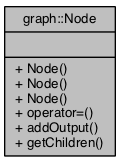
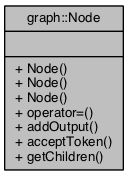
Documenation update

diff --git a/a00004.html b/a00004.html
@@ -102,47 +102,26 @@ Collaboration diagram for graph::Node:</div>
 <table class="memberdecls">
 <tr class="heading"><td colspan="2"><h2 class="groupheader"><a name="pub-methods"></a>
 Public Member Functions</h2></td></tr>
-<tr class="memitem:ad7a34779cad45d997bfd6d3d8043c75f"><td class="memItemLeft" align="right" valign="top">&#160;</td><td class="memItemRight" valign="bottom"><a class="el" href="a00004.html#ad7a34779cad45d997bfd6d3d8043c75f">Node</a> ()</td></tr>
-<tr class="separator:ad7a34779cad45d997bfd6d3d8043c75f"><td class="memSeparator" colspan="2">&#160;</td></tr>
 <tr class="memitem:a327cb611fb189d5252b6026917c226b7"><td class="memItemLeft" align="right" valign="top">&#160;</td><td class="memItemRight" valign="bottom"><a class="el" href="a00004.html#a327cb611fb189d5252b6026917c226b7">Node</a> (const <a class="el" href="a00004.html">Node</a> &amp;other)</td></tr>
 <tr class="separator:a327cb611fb189d5252b6026917c226b7"><td class="memSeparator" colspan="2">&#160;</td></tr>
-<tr class="memitem:a779b34c4717d1eb4a07b6395f283dbda"><td class="memItemLeft" align="right" valign="top">&#160;</td><td class="memItemRight" valign="bottom"><a class="el" href="a00004.html#a779b34c4717d1eb4a07b6395f283dbda">Node</a> (std::vector&lt; const <a class="el" href="a00004.html">Node</a> * &gt; &amp;output)</td></tr>
-<tr class="separator:a779b34c4717d1eb4a07b6395f283dbda"><td class="memSeparator" colspan="2">&#160;</td></tr>
+<tr class="memitem:ad3815f8afcd9f21b50b935ea3396bfb9"><td class="memItemLeft" align="right" valign="top">&#160;</td><td class="memItemRight" valign="bottom"><a class="el" href="a00004.html#ad3815f8afcd9f21b50b935ea3396bfb9">Node</a> (int treshold)</td></tr>
+<tr class="separator:ad3815f8afcd9f21b50b935ea3396bfb9"><td class="memSeparator" colspan="2">&#160;</td></tr>
+<tr class="memitem:a63b4d302f2d5459a25d15c375dd3ca73"><td class="memItemLeft" align="right" valign="top">&#160;</td><td class="memItemRight" valign="bottom"><a class="el" href="a00004.html#a63b4d302f2d5459a25d15c375dd3ca73">Node</a> (int treshold, std::vector&lt; <a class="el" href="a00004.html">Node</a> * &gt; &amp;output)</td></tr>
+<tr class="separator:a63b4d302f2d5459a25d15c375dd3ca73"><td class="memSeparator" colspan="2">&#160;</td></tr>
 <tr class="memitem:aefb1da11b9ddf052d8940d6637cbc0c9"><td class="memItemLeft" align="right" valign="top"><a class="el" href="a00004.html">Node</a> &amp;&#160;</td><td class="memItemRight" valign="bottom"><a class="el" href="a00004.html#aefb1da11b9ddf052d8940d6637cbc0c9">operator=</a> (const <a class="el" href="a00004.html">Node</a> &amp;rhs)</td></tr>
 <tr class="separator:aefb1da11b9ddf052d8940d6637cbc0c9"><td class="memSeparator" colspan="2">&#160;</td></tr>
-<tr class="memitem:aa47603f105bf68733d3817a396e48351"><td class="memItemLeft" align="right" valign="top">void&#160;</td><td class="memItemRight" valign="bottom"><a class="el" href="a00004.html#aa47603f105bf68733d3817a396e48351">addOutput</a> (const <a class="el" href="a00004.html">Node</a> *node)</td></tr>
-<tr class="separator:aa47603f105bf68733d3817a396e48351"><td class="memSeparator" colspan="2">&#160;</td></tr>
-<tr class="memitem:a5c06e4ec6c5fe6b2d6d754b9c5a688af"><td class="memItemLeft" align="right" valign="top">const std::vector&lt; const <a class="el" href="a00004.html">Node</a> * &gt;&#160;</td><td class="memItemRight" valign="bottom"><a class="el" href="a00004.html#a5c06e4ec6c5fe6b2d6d754b9c5a688af">getChildren</a> () const </td></tr>
-<tr class="separator:a5c06e4ec6c5fe6b2d6d754b9c5a688af"><td class="memSeparator" colspan="2">&#160;</td></tr>
+<tr class="memitem:a9d7f4c2bbc6adb8dea3d93ef77f9ab54"><td class="memItemLeft" align="right" valign="top">void&#160;</td><td class="memItemRight" valign="bottom"><a class="el" href="a00004.html#a9d7f4c2bbc6adb8dea3d93ef77f9ab54">addOutput</a> (<a class="el" href="a00004.html">Node</a> *node)</td></tr>
+<tr class="separator:a9d7f4c2bbc6adb8dea3d93ef77f9ab54"><td class="memSeparator" colspan="2">&#160;</td></tr>
+<tr class="memitem:a54203e5d9a16ad6dd9fc8ccf70064af6"><td class="memItemLeft" align="right" valign="top">void&#160;</td><td class="memItemRight" valign="bottom"><a class="el" href="a00004.html#a54203e5d9a16ad6dd9fc8ccf70064af6">acceptToken</a> (<a class="el" href="a00005.html">Token</a> *token)</td></tr>
+<tr class="separator:a54203e5d9a16ad6dd9fc8ccf70064af6"><td class="memSeparator" colspan="2">&#160;</td></tr>
+<tr class="memitem:a4bdef23ee2e31c88ea7faadde086ca3d"><td class="memItemLeft" align="right" valign="top">const std::vector&lt; <a class="el" href="a00004.html">Node</a> * &gt;&#160;</td><td class="memItemRight" valign="bottom"><a class="el" href="a00004.html#a4bdef23ee2e31c88ea7faadde086ca3d">getChildren</a> ()</td></tr>
+<tr class="separator:a4bdef23ee2e31c88ea7faadde086ca3d"><td class="memSeparator" colspan="2">&#160;</td></tr>
 </table>
 <a name="details" id="details"></a><h2 class="groupheader">Detailed Description</h2>
-<div class="textblock"><p>This class represents a node in a graph</p>
+<div class="textblock"><p>This class represents a node in a dataflow graph. A node represents a single operation on an arbitrary amount of input data.</p>
+<p>This input data is provided by other elements in the form of a <a class="el" href="a00005.html">Token</a>. Once the node received all of the input tokens it needs, it executes it's operation and sends the results to other nodes that are waiting for this data.</p>
 <dl class="section author"><dt>Author</dt><dd>Mathijs Saey </dd></dl>
 </div><h2 class="groupheader">Constructor &amp; Destructor Documentation</h2>
-<a class="anchor" id="ad7a34779cad45d997bfd6d3d8043c75f"></a>
-<div class="memitem">
-<div class="memproto">
-<table class="mlabels">
-  <tr>
-  <td class="mlabels-left">
-      <table class="memname">
-        <tr>
-          <td class="memname">Node::Node </td>
-          <td>(</td>
-          <td class="paramname"></td><td>)</td>
-          <td></td>
-        </tr>
-      </table>
-  </td>
-  <td class="mlabels-right">
-<span class="mlabels"><span class="mlabel">explicit</span></span>  </td>
-  </tr>
-</table>
-</div><div class="memdoc">
-<p>Create a node with no output nodes </p>
-
-</div>
-</div>
 <a class="anchor" id="a327cb611fb189d5252b6026917c226b7"></a>
 <div class="memitem">
 <div class="memproto">
@@ -174,7 +153,7 @@ Public Member Functions</h2></td></tr>
 
 </div>
 </div>
-<a class="anchor" id="a779b34c4717d1eb4a07b6395f283dbda"></a>
+<a class="anchor" id="ad3815f8afcd9f21b50b935ea3396bfb9"></a>
 <div class="memitem">
 <div class="memproto">
 <table class="mlabels">
@@ -184,9 +163,50 @@ Public Member Functions</h2></td></tr>
         <tr>
           <td class="memname">Node::Node </td>
           <td>(</td>
-          <td class="paramtype">std::vector&lt; const <a class="el" href="a00004.html">Node</a> * &gt; &amp;&#160;</td>
-          <td class="paramname"><em>output</em></td><td>)</td>
+          <td class="paramtype">int&#160;</td>
+          <td class="paramname"><em>treshold</em></td><td>)</td>
           <td></td>
+        </tr>
+      </table>
+  </td>
+  <td class="mlabels-right">
+<span class="mlabels"><span class="mlabel">explicit</span></span>  </td>
+  </tr>
+</table>
+</div><div class="memdoc">
+<p>Create a node with a given treshold.</p>
+<dl class="params"><dt>Parameters</dt><dd>
+  <table class="params">
+    <tr><td class="paramname">treshold</td><td>The amount of tokens the node needs to activate. </td></tr>
+  </table>
+  </dd>
+</dl>
+
+</div>
+</div>
+<a class="anchor" id="a63b4d302f2d5459a25d15c375dd3ca73"></a>
+<div class="memitem">
+<div class="memproto">
+<table class="mlabels">
+  <tr>
+  <td class="mlabels-left">
+      <table class="memname">
+        <tr>
+          <td class="memname">Node::Node </td>
+          <td>(</td>
+          <td class="paramtype">int&#160;</td>
+          <td class="paramname"><em>treshold</em>, </td>
+        </tr>
+        <tr>
+          <td class="paramkey"></td>
+          <td></td>
+          <td class="paramtype">std::vector&lt; <a class="el" href="a00004.html">Node</a> * &gt; &amp;&#160;</td>
+          <td class="paramname"><em>output</em>&#160;</td>
+        </tr>
+        <tr>
+          <td></td>
+          <td>)</td>
+          <td></td><td></td>
         </tr>
       </table>
   </td>
@@ -198,6 +218,7 @@ Public Member Functions</h2></td></tr>
 <p>Create a node with a given set of output nodes</p>
 <dl class="params"><dt>Parameters</dt><dd>
   <table class="params">
+    <tr><td class="paramname">treshold</td><td>The amount of tokens the node needs to activate.</td></tr>
     <tr><td class="paramname">output</td><td>A reference to a vector that contains the output nodes of this node. </td></tr>
   </table>
   </dd>
@@ -230,14 +251,14 @@ Public Member Functions</h2></td></tr>
 
 </div>
 </div>
-<a class="anchor" id="aa47603f105bf68733d3817a396e48351"></a>
+<a class="anchor" id="a9d7f4c2bbc6adb8dea3d93ef77f9ab54"></a>
 <div class="memitem">
 <div class="memproto">
       <table class="memname">
         <tr>
           <td class="memname">void Node::addOutput </td>
           <td>(</td>
-          <td class="paramtype">const <a class="el" href="a00004.html">Node</a> *&#160;</td>
+          <td class="paramtype"><a class="el" href="a00004.html">Node</a> *&#160;</td>
           <td class="paramname"><em>node</em></td><td>)</td>
           <td></td>
         </tr>
@@ -253,15 +274,38 @@ Public Member Functions</h2></td></tr>
 
 </div>
 </div>
-<a class="anchor" id="a5c06e4ec6c5fe6b2d6d754b9c5a688af"></a>
+<a class="anchor" id="a54203e5d9a16ad6dd9fc8ccf70064af6"></a>
 <div class="memitem">
 <div class="memproto">
       <table class="memname">
         <tr>
-          <td class="memname">const std::vector&lt; const <a class="el" href="a00004.html">Node</a> * &gt; Node::getChildren </td>
+          <td class="memname">void Node::acceptToken </td>
+          <td>(</td>
+          <td class="paramtype"><a class="el" href="a00005.html">Token</a> *&#160;</td>
+          <td class="paramname"><em>token</em></td><td>)</td>
+          <td></td>
+        </tr>
+      </table>
+</div><div class="memdoc">
+<p>Accept a token. If the node has more tokens than the treshold after adding this token, the node's operation is executed.</p>
+<dl class="params"><dt>Parameters</dt><dd>
+  <table class="params">
+    <tr><td class="paramname">token</td><td>The token to accept. </td></tr>
+  </table>
+  </dd>
+</dl>
+
+</div>
+</div>
+<a class="anchor" id="a4bdef23ee2e31c88ea7faadde086ca3d"></a>
+<div class="memitem">
+<div class="memproto">
+      <table class="memname">
+        <tr>
+          <td class="memname">const std::vector&lt; <a class="el" href="a00004.html">Node</a> * &gt; Node::getChildren </td>
           <td>(</td>
           <td class="paramname"></td><td>)</td>
-          <td> const</td>
+          <td></td>
         </tr>
       </table>
 </div><div class="memdoc">
@@ -273,7 +317,7 @@ Public Member Functions</h2></td></tr>
 </div><!-- contents -->
 <!-- start footer part -->
 <hr class="footer"/><address class="footer"><small>
-Generated on Fri Sep 20 2013 22:00:07 for DataFlow Virtual Machine by &#160;<a href="http://www.doxygen.org/index.html">
+Generated on Sat Sep 21 2013 02:25:14 for DataFlow Virtual Machine by &#160;<a href="http://www.doxygen.org/index.html">
 <img class="footer" src="doxygen.png" alt="doxygen"/>
 </a> 1.8.5
 </small></address>

diff --git a/a00014.html b/a00014.html
@@ -92,16 +92,17 @@ var searchBox = new SearchBox("searchBox", "search",false,'Search');
 
 <p>This is the complete list of members for <a class="el" href="a00004.html">graph::Node</a>, including all inherited members.</p>
 <table class="directory">
-  <tr class="even"><td class="entry"><a class="el" href="a00004.html#aa47603f105bf68733d3817a396e48351">addOutput</a>(const Node *node)</td><td class="entry"><a class="el" href="a00004.html">graph::Node</a></td><td class="entry"></td></tr>
-  <tr><td class="entry"><a class="el" href="a00004.html#a5c06e4ec6c5fe6b2d6d754b9c5a688af">getChildren</a>() const </td><td class="entry"><a class="el" href="a00004.html">graph::Node</a></td><td class="entry"></td></tr>
-  <tr class="even"><td class="entry"><a class="el" href="a00004.html#ad7a34779cad45d997bfd6d3d8043c75f">Node</a>()</td><td class="entry"><a class="el" href="a00004.html">graph::Node</a></td><td class="entry"><span class="mlabel">explicit</span></td></tr>
+  <tr class="even"><td class="entry"><a class="el" href="a00004.html#a54203e5d9a16ad6dd9fc8ccf70064af6">acceptToken</a>(Token *token)</td><td class="entry"><a class="el" href="a00004.html">graph::Node</a></td><td class="entry"></td></tr>
+  <tr><td class="entry"><a class="el" href="a00004.html#a9d7f4c2bbc6adb8dea3d93ef77f9ab54">addOutput</a>(Node *node)</td><td class="entry"><a class="el" href="a00004.html">graph::Node</a></td><td class="entry"></td></tr>
+  <tr class="even"><td class="entry"><a class="el" href="a00004.html#a4bdef23ee2e31c88ea7faadde086ca3d">getChildren</a>()</td><td class="entry"><a class="el" href="a00004.html">graph::Node</a></td><td class="entry"></td></tr>
   <tr><td class="entry"><a class="el" href="a00004.html#a327cb611fb189d5252b6026917c226b7">Node</a>(const Node &amp;other)</td><td class="entry"><a class="el" href="a00004.html">graph::Node</a></td><td class="entry"><span class="mlabel">explicit</span></td></tr>
-  <tr class="even"><td class="entry"><a class="el" href="a00004.html#a779b34c4717d1eb4a07b6395f283dbda">Node</a>(std::vector&lt; const Node * &gt; &amp;output)</td><td class="entry"><a class="el" href="a00004.html">graph::Node</a></td><td class="entry"><span class="mlabel">explicit</span></td></tr>
-  <tr><td class="entry"><a class="el" href="a00004.html#aefb1da11b9ddf052d8940d6637cbc0c9">operator=</a>(const Node &amp;rhs)</td><td class="entry"><a class="el" href="a00004.html">graph::Node</a></td><td class="entry"></td></tr>
+  <tr class="even"><td class="entry"><a class="el" href="a00004.html#ad3815f8afcd9f21b50b935ea3396bfb9">Node</a>(int treshold)</td><td class="entry"><a class="el" href="a00004.html">graph::Node</a></td><td class="entry"><span class="mlabel">explicit</span></td></tr>
+  <tr><td class="entry"><a class="el" href="a00004.html#a63b4d302f2d5459a25d15c375dd3ca73">Node</a>(int treshold, std::vector&lt; Node * &gt; &amp;output)</td><td class="entry"><a class="el" href="a00004.html">graph::Node</a></td><td class="entry"><span class="mlabel">explicit</span></td></tr>
+  <tr class="even"><td class="entry"><a class="el" href="a00004.html#aefb1da11b9ddf052d8940d6637cbc0c9">operator=</a>(const Node &amp;rhs)</td><td class="entry"><a class="el" href="a00004.html">graph::Node</a></td><td class="entry"></td></tr>
 </table></div><!-- contents -->
 <!-- start footer part -->
 <hr class="footer"/><address class="footer"><small>
-Generated on Fri Sep 20 2013 22:00:07 for DataFlow Virtual Machine by &#160;<a href="http://www.doxygen.org/index.html">
+Generated on Sat Sep 21 2013 02:25:14 for DataFlow Virtual Machine by &#160;<a href="http://www.doxygen.org/index.html">
 <img class="footer" src="doxygen.png" alt="doxygen"/>
 </a> 1.8.5
 </small></address>

diff --git a/a00005.html b/a00005.html
@@ -96,8 +96,6 @@ var searchBox = new SearchBox("searchBox", "search",false,'Search');
 Collaboration diagram for graph::Token:</div>
 <div class="dyncontent">
 <div class="center"><img src="a00017.png" border="0" usemap="#graph_1_1_token_coll__map" alt="Collaboration graph"/></div>
-<map name="graph_1_1_token_coll__map" id="graph_1_1_token_coll__map">
-</map>
 </div>
 <table class="memberdecls">
 <tr class="heading"><td colspan="2"><h2 class="groupheader"><a name="pub-methods"></a>
@@ -110,7 +108,7 @@ Public Member Functions</h2></td></tr>
 <tr class="separator:a5ca1b9dcf1082d68cc167791bd072eec"><td class="memSeparator" colspan="2">&#160;</td></tr>
 </table>
 <a name="details" id="details"></a><h2 class="groupheader">Detailed Description</h2>
-<div class="textblock"><p>This class represents a token</p>
+<div class="textblock"><p>This class represents a token in a dataflow graph. A token in a dataflow graph represents a single piece of data that a <a class="el" href="a00004.html">Node</a> needs to execute.</p>
 <dl class="section author"><dt>Author</dt><dd>Mathijs Saey </dd></dl>
 </div><h2 class="groupheader">Constructor &amp; Destructor Documentation</h2>
 <a class="anchor" id="aa3c5868ba4115f3189df6b2ac5b36f39"></a>
@@ -197,7 +195,7 @@ Public Member Functions</h2></td></tr>
 </div><!-- contents -->
 <!-- start footer part -->
 <hr class="footer"/><address class="footer"><small>
-Generated on Fri Sep 20 2013 22:00:07 for DataFlow Virtual Machine by &#160;<a href="http://www.doxygen.org/index.html">
+Generated on Sat Sep 21 2013 02:25:14 for DataFlow Virtual Machine by &#160;<a href="http://www.doxygen.org/index.html">
 <img class="footer" src="doxygen.png" alt="doxygen"/>
 </a> 1.8.5
 </small></address>

diff --git a/functions.html b/functions.html
@@ -88,14 +88,17 @@ var searchBox = new SearchBox("searchBox", "search",false,'Search');
 
 <div class="contents">
 <div class="textblock">Here is a list of all documented class members with links to the class documentation for each member:</div><ul>
+<li>acceptToken()
+: <a class="el" href="a00004.html#a54203e5d9a16ad6dd9fc8ccf70064af6">graph::Node</a>
+</li>
 <li>addOutput()
-: <a class="el" href="a00004.html#aa47603f105bf68733d3817a396e48351">graph::Node</a>
+: <a class="el" href="a00004.html#a9d7f4c2bbc6adb8dea3d93ef77f9ab54">graph::Node</a>
 </li>
 <li>getChildren()
-: <a class="el" href="a00004.html#a5c06e4ec6c5fe6b2d6d754b9c5a688af">graph::Node</a>
+: <a class="el" href="a00004.html#a4bdef23ee2e31c88ea7faadde086ca3d">graph::Node</a>
 </li>
 <li>Node()
-: <a class="el" href="a00004.html#ad7a34779cad45d997bfd6d3d8043c75f">graph::Node</a>
+: <a class="el" href="a00004.html#a327cb611fb189d5252b6026917c226b7">graph::Node</a>
 </li>
 <li>operator=()
 : <a class="el" href="a00004.html#aefb1da11b9ddf052d8940d6637cbc0c9">graph::Node</a>
@@ -108,7 +111,7 @@ var searchBox = new SearchBox("searchBox", "search",false,'Search');
 </div><!-- contents -->
 <!-- start footer part -->
 <hr class="footer"/><address class="footer"><small>
-Generated on Fri Sep 20 2013 22:00:07 for DataFlow Virtual Machine by &#160;<a href="http://www.doxygen.org/index.html">
+Generated on Sat Sep 21 2013 02:25:14 for DataFlow Virtual Machine by &#160;<a href="http://www.doxygen.org/index.html">
 <img class="footer" src="doxygen.png" alt="doxygen"/>
 </a> 1.8.5
 </small></address>

diff --git a/functions_func.html b/functions_func.html
@@ -88,14 +88,17 @@ var searchBox = new SearchBox("searchBox", "search",false,'Search');
 
 <div class="contents">
 &#160;<ul>
+<li>acceptToken()
+: <a class="el" href="a00004.html#a54203e5d9a16ad6dd9fc8ccf70064af6">graph::Node</a>
+</li>
 <li>addOutput()
-: <a class="el" href="a00004.html#aa47603f105bf68733d3817a396e48351">graph::Node</a>
+: <a class="el" href="a00004.html#a9d7f4c2bbc6adb8dea3d93ef77f9ab54">graph::Node</a>
 </li>
 <li>getChildren()
-: <a class="el" href="a00004.html#a5c06e4ec6c5fe6b2d6d754b9c5a688af">graph::Node</a>
+: <a class="el" href="a00004.html#a4bdef23ee2e31c88ea7faadde086ca3d">graph::Node</a>
 </li>
 <li>Node()
-: <a class="el" href="a00004.html#ad7a34779cad45d997bfd6d3d8043c75f">graph::Node</a>
+: <a class="el" href="a00004.html#a327cb611fb189d5252b6026917c226b7">graph::Node</a>
 </li>
 <li>operator=()
 : <a class="el" href="a00004.html#aefb1da11b9ddf052d8940d6637cbc0c9">graph::Node</a>
@@ -108,7 +111,7 @@ var searchBox = new SearchBox("searchBox", "search",false,'Search');
 </div><!-- contents -->
 <!-- start footer part -->
 <hr class="footer"/><address class="footer"><small>
-Generated on Fri Sep 20 2013 22:00:07 for DataFlow Virtual Machine by &#160;<a href="http://www.doxygen.org/index.html">
+Generated on Sat Sep 21 2013 02:25:14 for DataFlow Virtual Machine by &#160;<a href="http://www.doxygen.org/index.html">
 <img class="footer" src="doxygen.png" alt="doxygen"/>
 </a> 1.8.5
 </small></address>

diff --git a/search/all_6e.js b/search/all_6e.js
@@ -1,5 +1,5 @@
 var searchData=
 [
   ['node',['Node',['../a00004.html',1,'graph']]],
-  ['node',['Node',['../a00004.html#ad7a34779cad45d997bfd6d3d8043c75f',1,'graph::Node::Node()'],['../a00004.html#a327cb611fb189d5252b6026917c226b7',1,'graph::Node::Node(const Node &amp;other)'],['../a00004.html#a779b34c4717d1eb4a07b6395f283dbda',1,'graph::Node::Node(std::vector&lt; const Node * &gt; &amp;output)']]]
+  ['node',['Node',['../a00004.html#a327cb611fb189d5252b6026917c226b7',1,'graph::Node::Node(const Node &amp;other)'],['../a00004.html#ad3815f8afcd9f21b50b935ea3396bfb9',1,'graph::Node::Node(int treshold)'],['../a00004.html#a63b4d302f2d5459a25d15c375dd3ca73',1,'graph::Node::Node(int treshold, std::vector&lt; Node * &gt; &amp;output)']]]
 ];

diff --git a/search/functions_6e.js b/search/functions_6e.js
@@ -1,4 +1,4 @@
 var searchData=
 [
-  ['node',['Node',['../a00004.html#ad7a34779cad45d997bfd6d3d8043c75f',1,'graph::Node::Node()'],['../a00004.html#a327cb611fb189d5252b6026917c226b7',1,'graph::Node::Node(const Node &amp;other)'],['../a00004.html#a779b34c4717d1eb4a07b6395f283dbda',1,'graph::Node::Node(std::vector&lt; const Node * &gt; &amp;output)']]]
+  ['node',['Node',['../a00004.html#a327cb611fb189d5252b6026917c226b7',1,'graph::Node::Node(const Node &amp;other)'],['../a00004.html#ad3815f8afcd9f21b50b935ea3396bfb9',1,'graph::Node::Node(int treshold)'],['../a00004.html#a63b4d302f2d5459a25d15c375dd3ca73',1,'graph::Node::Node(int treshold, std::vector&lt; Node * &gt; &amp;output)']]]
 ];

diff --git a/graph_legend.html b/graph_legend.html
@@ -145,7 +145,7 @@ A yellow dashed arrow denotes a relation between a template instance and the tem
 </div><!-- contents -->
 <!-- start footer part -->
 <hr class="footer"/><address class="footer"><small>
-Generated on Fri Sep 20 2013 22:00:07 for DataFlow Virtual Machine by &#160;<a href="http://www.doxygen.org/index.html">
+Generated on Sat Sep 21 2013 02:25:14 for DataFlow Virtual Machine by &#160;<a href="http://www.doxygen.org/index.html">
 <img class="footer" src="doxygen.png" alt="doxygen"/>
 </a> 1.8.5
 </small></address>

diff --git a/a00016.html b/a00016.html
@@ -98,7 +98,7 @@ var searchBox = new SearchBox("searchBox", "search",false,'Search');
 </table></div><!-- contents -->
 <!-- start footer part -->
 <hr class="footer"/><address class="footer"><small>
-Generated on Fri Sep 20 2013 22:00:07 for DataFlow Virtual Machine by &#160;<a href="http://www.doxygen.org/index.html">
+Generated on Sat Sep 21 2013 02:25:14 for DataFlow Virtual Machine by &#160;<a href="http://www.doxygen.org/index.html">
 <img class="footer" src="doxygen.png" alt="doxygen"/>
 </a> 1.8.5
 </small></address>

diff --git a/a00002.html b/a00002.html
@@ -83,7 +83,7 @@ var searchBox = new SearchBox("searchBox", "search",false,'Search');
 </div></div><!-- contents -->
 <!-- start footer part -->
 <hr class="footer"/><address class="footer"><small>
-Generated on Fri Sep 20 2013 22:00:07 for DataFlow Virtual Machine by &#160;<a href="http://www.doxygen.org/index.html">
+Generated on Sat Sep 21 2013 02:25:14 for DataFlow Virtual Machine by &#160;<a href="http://www.doxygen.org/index.html">
 <img class="footer" src="doxygen.png" alt="doxygen"/>
 </a> 1.8.5
 </small></address>

diff --git a/index.html b/index.html
@@ -82,7 +82,7 @@ var searchBox = new SearchBox("searchBox", "search",false,'Search');
 </div></div><!-- contents -->
 <!-- start footer part -->
 <hr class="footer"/><address class="footer"><small>
-Generated on Fri Sep 20 2013 22:00:07 for DataFlow Virtual Machine by &#160;<a href="http://www.doxygen.org/index.html">
+Generated on Sat Sep 21 2013 02:25:14 for DataFlow Virtual Machine by &#160;<a href="http://www.doxygen.org/index.html">
 <img class="footer" src="doxygen.png" alt="doxygen"/>
 </a> 1.8.5
 </small></address>

diff --git a/annotated.html b/annotated.html
@@ -95,7 +95,7 @@ var searchBox = new SearchBox("searchBox", "search",false,'Search');
 </div><!-- contents -->
 <!-- start footer part -->
 <hr class="footer"/><address class="footer"><small>
-Generated on Fri Sep 20 2013 22:00:07 for DataFlow Virtual Machine by &#160;<a href="http://www.doxygen.org/index.html">
+Generated on Sat Sep 21 2013 02:25:14 for DataFlow Virtual Machine by &#160;<a href="http://www.doxygen.org/index.html">
 <img class="footer" src="doxygen.png" alt="doxygen"/>
 </a> 1.8.5
 </small></address>
